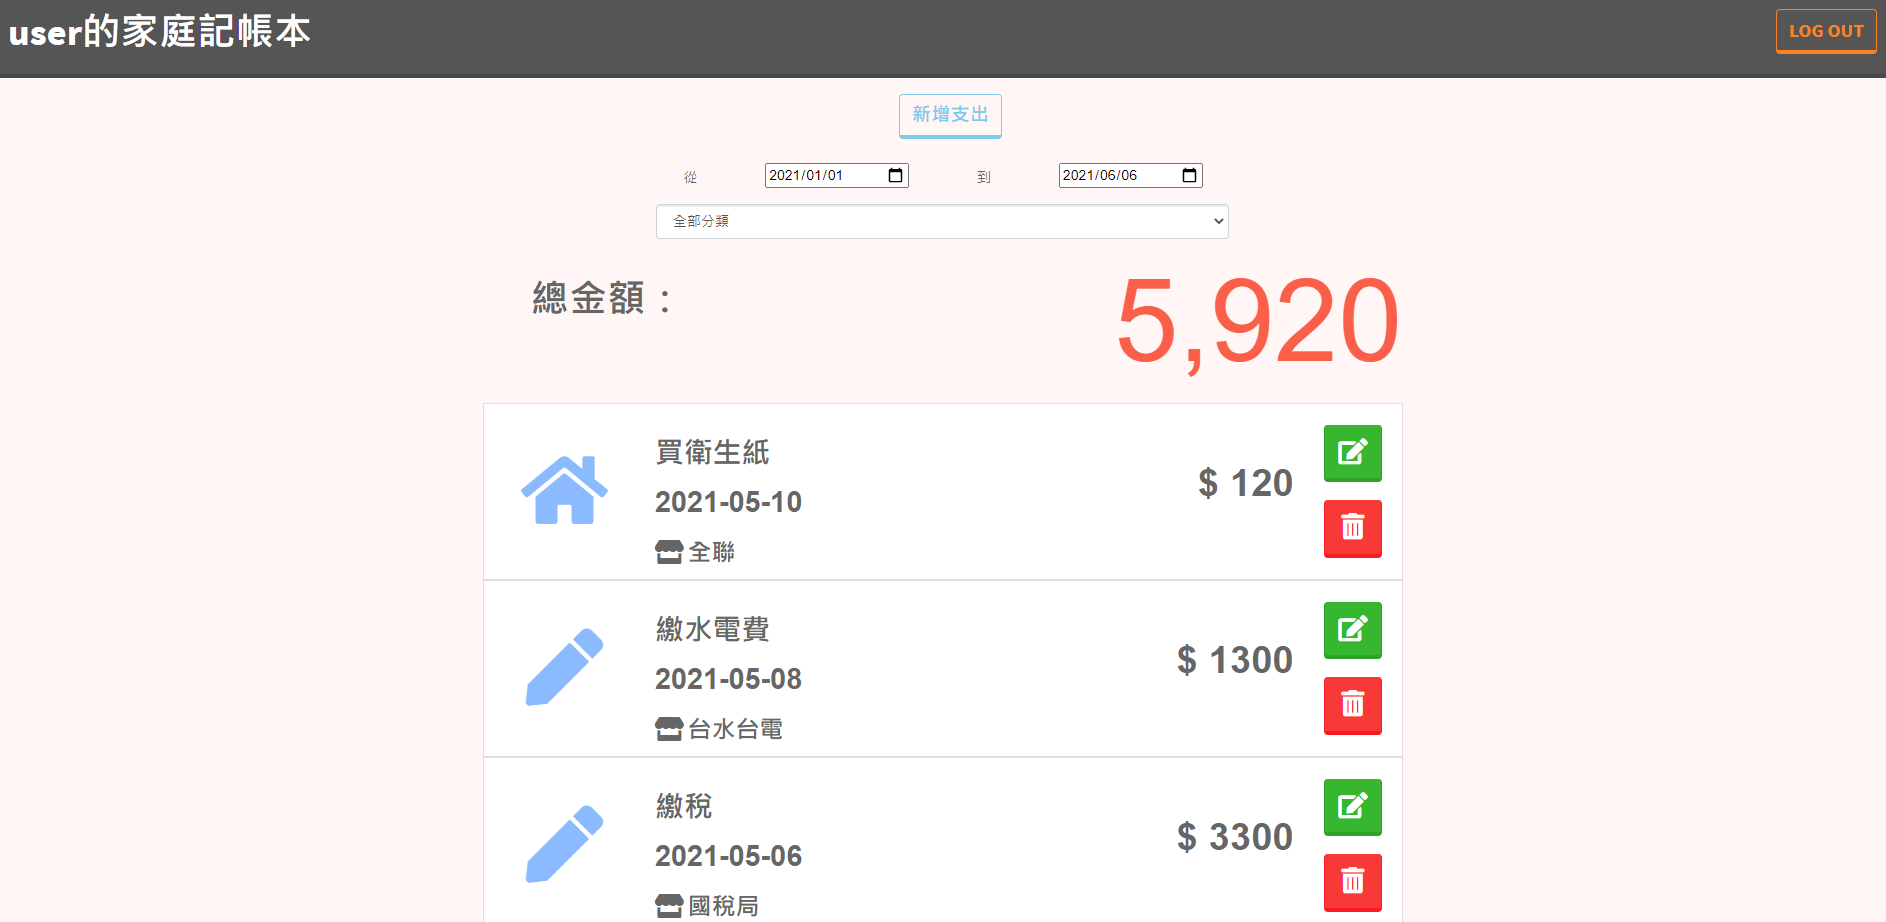
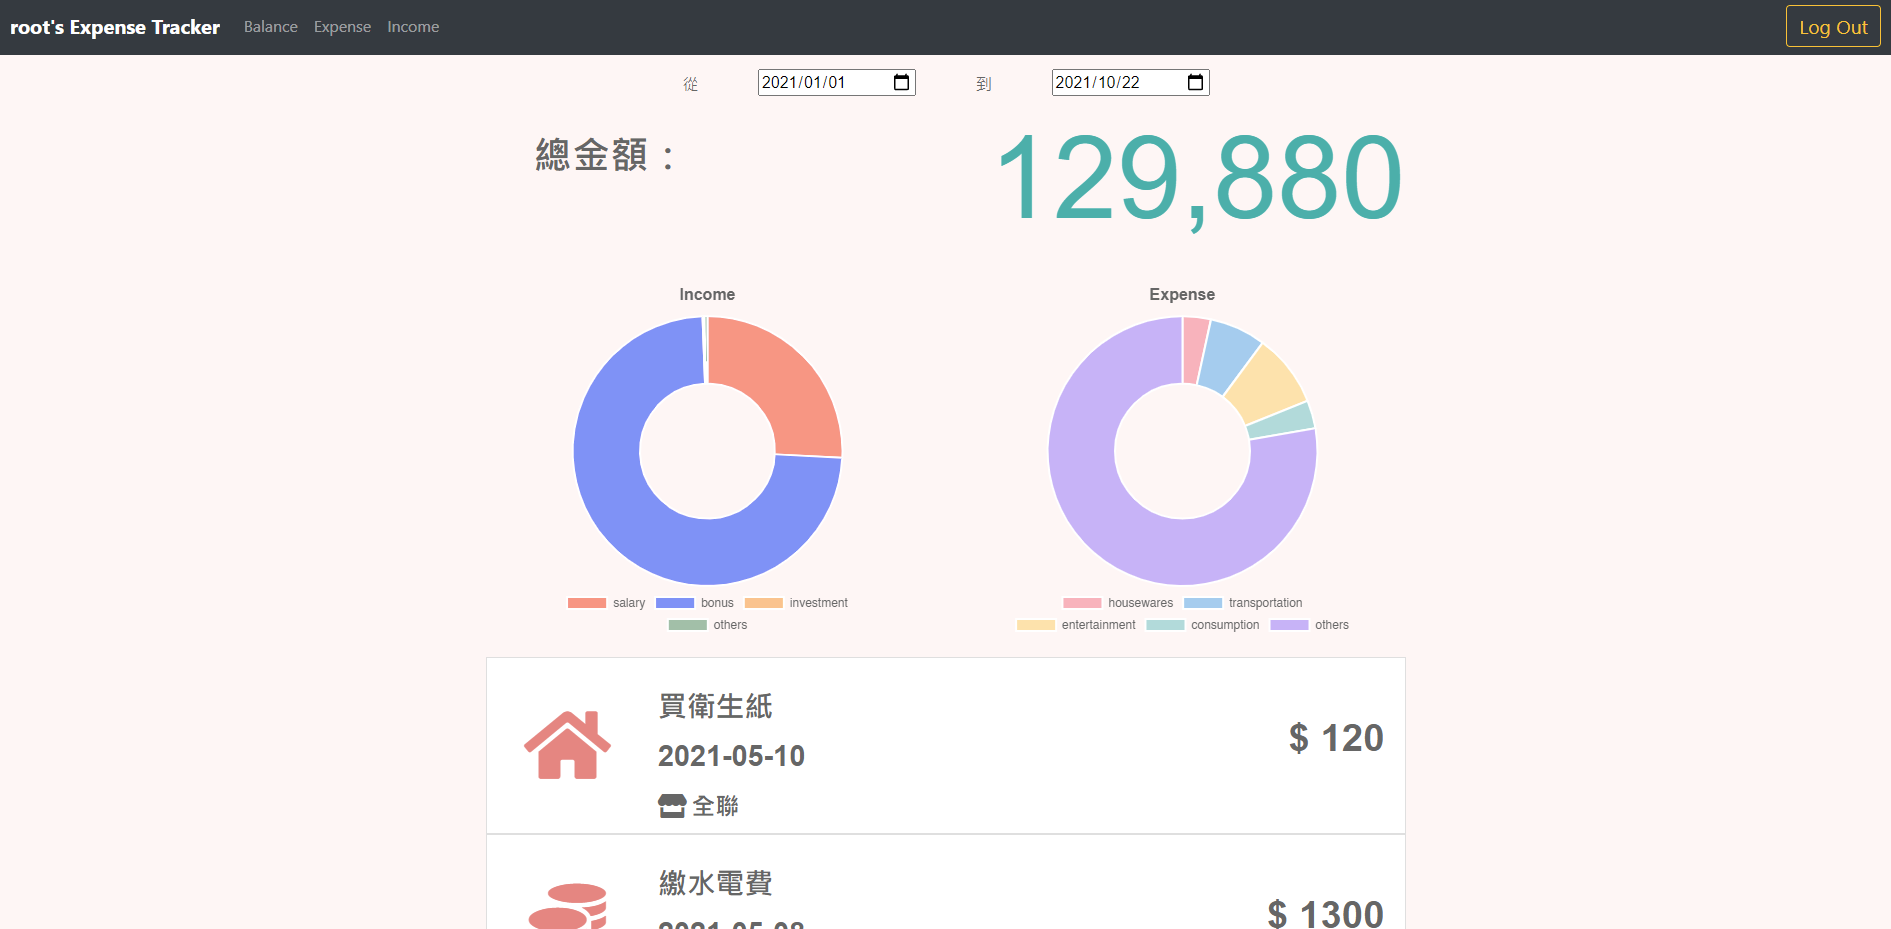
docs: update README

diff --git a/READMe.md b/READMe.md
@@ -1,49 +1,49 @@
 # Expense Tracker
-利用Node.js + Express打造的簡易支出記帳網站
+利用 Node.js + Express 打造的簡易支出與收入記帳網站 <br>
 ![login image](https://github.com/chriszychen/expense-tracker/blob/main/public/images/login.PNG)
 ![index image](https://github.com/chriszychen/expense-tracker/blob/main/public/images/index.PNG)
+## Live Demo
+[My Expense Tracker](https://expense-tracker-demo-chris.herokuapp.com/)
+
+Demo account - ```root@example.com / 12345678```
+
+
 ## Features - 專案功能描述
 
-* 總覽所有支出的名稱、分類和支出金額
-* 選擇支出的分類進行支出記錄的篩選，篩選後會看到該類別支出記錄和篩選後的總金額
-* 新增一筆支出記錄
-* 修改任一筆支出記錄的內容
-* 刪除任一筆支出記錄
-* 使用自訂用戶名稱、Email和密碼進行註冊
-* 使用註冊好的Email與密碼或~~使用Facebook帳號~~進行登入  (Facebook登入維修中)
-* 選擇日期區間進行支出記錄篩選，篩選後會看到位於該日期區間的支出內容與總金額
+* 可使用自訂用戶名稱、Email 和密碼進行註冊。
+* 使用註冊的 Email 與密碼進行登入，也能使用 Facebook、Google、GitHub 進行第三方登入。
+* Balance 頁面可以總覽固定日期區間的支出與收入明細，並透過圖表查看比例。
+* Expense 和 Income 頁面分別可以對支出與收入明細進行CRUD操作。
+* Expense 和 Income 頁面也具有篩選功能，能夠使用分類及日期區間篩選符合條件的紀錄。
 
-## Prerequisites - 環境建置與需求
+## Environment - 環境需求
 
 * [Node.js v14.16.1](https://nodejs.org/en/)
 * [MongoDB v4.2.14](https://www.mongodb.com/try/download/community)
 
-## Installation and Execution - 安裝與執行步驟
+## Installation and Execution - 安裝與執行
 1.打開終端機，使用git clone將專案下載至本地資料夾
 ```
 git clone https://github.com/chriszychen/expense-tracker.git
 ```
 
-2.進入專案資料夾
-```
-cd expense-tracker
-```
-
-3.安裝專案需求套件
+2.安裝專案需求套件
 ```
 npm install 
 ```
 
-4.啟動MongoDB資料庫<br/><br/>
-5.修改.env.example檔名為.env並將自己的Facebook App ID和Facebook App Secret填入後存檔<br/><br/>
-6.啟動伺服器
+3.啟動MongoDB資料庫<br/><br/>
+
+4.修改.env.example檔名為.env並將自己的Facebook App ID和Facebook App Secret填入後存檔<br/><br/>
+
+5.啟動伺服器
 ```
 npm run start
 ```
 
 終端機顯示 ```App is running on http://localhost:3000``` 代表伺服器成功啟動<br/>
 顯示 ```mongodb connected!``` 代表伺服器成功與資料庫連接 <br/><br/>
-7.新增種子資料
+6.新增種子資料
 ```
 npm run seed
 ```
